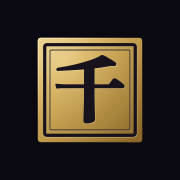
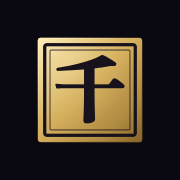
fix(S1b.3/brand): the seal's finish after Codex round 8 — cream carried across the lit face, a fainter caught light, the inverse's 千 lit with its frames; story layers rebuilt from the per-object masters
- Seal: the ramp starts at the cream highlight and carries the light gold across the upper-left face; weaker bloom;
  the light caught under the carving at 0.3 opacity, half the offset, fading toward the far corner. Geometry unchanged.
- Inverse: the 千 is placed in seal coordinates, so its userSpaceOnUse inlay is the same light as the frames'.
- Regenerated every build.py output, rasters and app copies; re-pinned the seal and mono; identity codegen re-run.
- onboarding-art.mjs: the masters now keep one layer per object or shadow (layers.json), so the five bands the hero
  moves are composed from them as contiguous runs (stacking kept: stacked bands match the masters to WebP error, the
  same as on main). Markets has no fore band any more (its label plates sit with their trays); scenes.ts drops it.
- Review file: round 8 verbatim and the fix; README and plan updated.

diff --git a/packages/identity/src/art/originals.ts b/packages/identity/src/art/originals.ts
@@ -61,7 +61,7 @@ export const ORIGINAL_ART: readonly ArtSource[] = [
       symbol: {
         path: "brand/senryo-seal.svg",
         url: "brand/senryo-seal.svg",
[2 lines of base64/hex data omitted]
         viewBox: "0 0 512 512",
         insetPermille: 0,
         surface: "any",
@@ -70,7 +70,7 @@ export const ORIGINAL_ART: readonly ArtSource[] = [
       monoLight: {
         path: "brand/senryo-seal-mono.svg",
         url: "brand/senryo-seal-mono.svg",
[2 lines of base64/hex data omitted]
         viewBox: "0 0 512 512",
         insetPermille: 0,
         surface: "dark",

diff --git a/apps/mobile/src/features/onboarding/scenes.ts b/apps/mobile/src/features/onboarding/scenes.ts
@@ -78,7 +78,6 @@ export const SCENES: readonly Scene[] = [
     layers: {
       shadow: require("../../../assets/onboarding/scene-markets-shadow.webp"),
       main: require("../../../assets/onboarding/scene-markets-main.webp"),
-      fore: require("../../../assets/onboarding/scene-markets-fore.webp"),
     },
     labels: LABELS.scenes.markets as readonly SceneLabel[],
   },

diff --git a/brand/scripts/build.py b/brand/scripts/build.py
@@ -6,6 +6,7 @@ gold-leaf ramp (MATERIAL.goldLeaf in src/marks.ts), carved in lacquer; grounds a
 """
 import json
 import os
+import re
 import subprocess
 import sys
 
@@ -35,18 +36,21 @@ def gradient(gid: str, stops: list[tuple], attrs: str = 'x1="0" y1="0" x2="1" y2
 
 
 # The gold-leaf seal, lit from the upper left (the onboarding scenes' lamp): the field runs the whole ramp corner to
-# corner, the lamp's reflection is a soft round bloom of the highlight off the lit corner (so the light falls off in
-# two directions, not in one straight band), and the bevel is light along the lit edges and shade along the far ones,
-# fading out between.
+# corner (cream at the lit corner, the light gold carried across the upper-left face, the deepest brown only in the far
+# corner), the lamp's reflection is a soft round bloom off the lit corner (so the light falls off in two directions, not
+# in one straight band), and the bevel is light along the lit edges and shade along the far ones, fading out between.
+# The light a carved edge catches is faint and fades toward the far corner too.
 LEAF_FILL, LEAF_SHEEN, LEAF_BEVEL = "url(#senryo-leaf)", "url(#senryo-leaf-sheen)", "url(#senryo-leaf-bevel)"
+LEAF_CATCH = "url(#senryo-leaf-catch)"
 LEAF_DEFS = (
-    gradient("senryo-leaf", [(0, LEAF["light"]), (0.3, LEAF["mid"]), (0.7, LEAF["shade"]), (1, LEAF["shadow"])])
-    + f'<radialGradient id="senryo-leaf-sheen" cx=".26" cy=".22" r=".62"><stop offset="0" stop-color="{LEAF["highlight"]}" '
-    f'stop-opacity=".4"/><stop offset=".5" stop-color="{LEAF["highlight"]}" stop-opacity=".13"/>'
+    gradient("senryo-leaf", [(0, LEAF["highlight"]), (0.2, LEAF["light"]), (0.48, LEAF["mid"]), (0.8, LEAF["shade"]), (1, LEAF["shadow"])])
+    + f'<radialGradient id="senryo-leaf-sheen" cx=".3" cy=".26" r=".6"><stop offset="0" stop-color="{LEAF["highlight"]}" '
+    f'stop-opacity=".26"/><stop offset=".5" stop-color="{LEAF["highlight"]}" stop-opacity=".08"/>'
     f'<stop offset="1" stop-color="{LEAF["highlight"]}" stop-opacity="0"/></radialGradient>'
     + gradient("senryo-leaf-bevel", [(0, LEAF["highlight"], 0.85), (0.4, LEAF["highlight"], 0), (0.6, LEAF["shadow"], 0), (1, LEAF["shadow"], 0.85)])
+    + gradient("senryo-leaf-catch", [(0, LEAF["highlight"]), (1, LEAF["highlight"], 0.2)])
 )
-CATCH_SHIFT, CATCH_OPACITY = (2.0, 2.6), 0.5  # the light a carved edge catches: offset in seal units (of 512), strength
+CATCH_SHIFT, CATCH_OPACITY = (1.0, 1.3), 0.3  # the light a carved edge catches: offset in seal units (of 512), strength
 BEVEL_WIDTH = 5  # seal units (of 512)
 # The inverse seal: lacquer lit the same way, the carving filled with gold leaf (one ramp across the whole seal).
 INVERSE_FILL, INVERSE_CARVE = "url(#senryo-lacquer)", "url(#senryo-leaf-inlay)"
@@ -67,13 +71,37 @@ def outline(font: str, text: str, tracking: float = 0) -> dict:
     return json.loads(out)
 
 
-def fit(glyph: dict, box_x: float, box_y: float, box_w: float, box_h: float) -> str:
-    """Transform that scales the glyph bbox into the box (uniform) and centres it."""
+def fit_params(glyph: dict, box_x: float, box_y: float, box_w: float, box_h: float) -> tuple[float, float, float]:
+    """(tx, ty, s): the uniform scale that fits the glyph bbox into the box, and the translation that centres it."""
     x0, y0, x1, y1 = glyph["bbox"]
     s = min(box_w / (x1 - x0), box_h / (y1 - y0))
-    tx = box_x + (box_w - (x1 - x0) * s) / 2 - x0 * s
-    ty = box_y + (box_h - (y1 - y0) * s) / 2 - y0 * s
+    return round(box_x + (box_w - (x1 - x0) * s) / 2 - x0 * s, 2), round(box_y + (box_h - (y1 - y0) * s) / 2 - y0 * s, 2), round(s, 5)
+
+
+def fit(glyph: dict, box_x: float, box_y: float, box_w: float, box_h: float) -> str:
+    """Transform that scales the glyph bbox into the box (uniform) and centres it."""
+    tx, ty, s = fit_params(glyph, box_x, box_y, box_w, box_h)
     return f"translate({tx:.2f} {ty:.2f}) scale({s:.5f})"
+
+
+def placed(d: str, tx: float, ty: float, s: float) -> str:
+    """The path `d` (absolute M/L/H/V/Q/Z only, as outline.py writes glyphs) moved by translate(tx ty) scale(s)."""
+    out, cmd, axis = [], "", 0
+    for tok in re.findall(r"[A-Za-z]|-?\d*\.?\d+", d):
+        if tok.isalpha():
+            if tok not in "MLHVQZ":
+                raise ValueError(f"placed(): unsupported path command {tok}")
+            out.append(tok)
+            cmd, axis = tok, 0
+            continue
+        v = float(tok)
+        if cmd == "H" or (cmd != "V" and axis == 0):
+            v = tx + s * v
+        else:
+            v = ty + s * v
+        axis = 0 if cmd in "HV" else 1 - axis
+        out.append(f"{v:.2f}")
+    return " ".join(out).replace(" Z", "Z")
 
 
 def write(name: str, body: str) -> None:
@@ -87,9 +115,13 @@ WORD = outline(MONO, "SENRYO", -10)
 
 
 # --- seal ---------------------------------------------------------------------
-def seal_group(size: float, fill: str, carve: str, simple: bool = False, edge: str | None = None, leaf: bool = False) -> str:
+def seal_group(
+    size: float, fill: str, carve: str, simple: bool = False, edge: str | None = None, leaf: bool = False, inlay: bool = False
+) -> str:
     """角印: filled square, carved double border (thick + hairline), carved 千. Coordinates 0..size.
-    `leaf` is the gold-leaf seal: a sheen and a bevel on the field and a line of light caught under every carved edge."""
+    `leaf` is the gold-leaf seal: a sheen and a bevel on the field and a line of light caught under every carved edge.
+    `inlay` places the 千 in seal coordinates (no transform), so one userSpaceOnUse paint lights glyph and frames alike;
+    otherwise the path stays in font units (art.py reads the glyph from the primary seal that way)."""
     k = size / 512
     r = 14 * k
     parts = [f'<rect width="{size}" height="{size}" rx="{r:.2f}" fill="{fill}"/>']
@@ -121,16 +153,18 @@ def seal_group(size: float, fill: str, carve: str, simple: bool = False, edge: s
     else:
         box = 56 * k
     # Optical centre: nudge the glyph up a hair (mincho 千 carries weight in its lower stem).
-    t = fit(SEN, box, box - 4 * k, size - 2 * box, size - 2 * box)
+    tx, ty, s = fit_params(SEN, box, box - 4 * k, size - 2 * box, size - 2 * box)
     # Embolden with a same-colour stroke (font units): mincho hairlines become carved seal strokes.
     bold = 34 if simple else 22
-    carved.append(
-        f'<path transform="{t}" fill="INK" stroke="INK" stroke-width="{bold}" stroke-linejoin="round" d="{SEN["d"]}"/>'
-    )
+    if inlay:
+        glyph = f'stroke-width="{bold * s:.2f}" d="{placed(SEN["d"], tx, ty, s)}"'
+    else:
+        glyph = f'transform="{fit(SEN, box, box - 4 * k, size - 2 * box, size - 2 * box)}" stroke-width="{bold}" d="{SEN["d"]}"'
+    carved.append(f'<path fill="INK" stroke="INK" stroke-linejoin="round" {glyph}/>')
     carving = "\n  ".join(carved)  # drawn once per ink: "INK" stands for the colour
     if leaf:
         dx, dy = CATCH_SHIFT[0] * k, CATCH_SHIFT[1] * k
-        caught = carving.replace("INK", LEAF["highlight"])
+        caught = carving.replace("INK", LEAF_CATCH)
         parts.append(f'<g transform="translate({dx:.2f} {dy:.2f})" opacity="{CATCH_OPACITY}">{caught}</g>')
     parts.append(carving.replace("INK", carve))
     return "\n  ".join(parts)
@@ -177,7 +211,7 @@ def build_marks() -> None:
         svg(
             512,
             512,
-            seal_group(512, INVERSE_FILL, INVERSE_CARVE, edge=INVERSE_CARVE),
+            seal_group(512, INVERSE_FILL, INVERSE_CARVE, edge=INVERSE_CARVE, inlay=True),
             "Senryo 千両 seal (inverse)",
             extra_defs=INVERSE_DEFS,
         ),

diff --git a/docs/design/reviews/2026-10-01-j1-art-review.md b/docs/design/reviews/2026-10-01-j1-art-review.md
@@ -8,7 +8,8 @@ This is the review record for the authored J1 artwork package of plan step S1b.3
 blocker B12): six onboarding scenes, the pending-passkey art, the completion foil and twelve default avatars, written
 by `brand/scripts/onboarding.py` into `brand/art/onboarding/` and `brand/art/avatars/`. The artwork owner (an agent)
 ran the review after each revision and worked through every finding; the reviewer's text below is verbatim. The
-redrawn Kinpaku card face and the gold-leaf seal were added afterwards (rounds 6 and 7).
+redrawn Kinpaku card face and the gold-leaf seal were added afterwards (rounds 6 and 7), and the seal's finish was
+reviewed once more on its own (round 8, at the end of this file).
 
 ## How it was run
 
@@ -62,6 +63,17 @@ reviewed those two over two further rounds (same command, verbatim at the end of
 - **Changed after the round-7 verdict, not re-reviewed** (each one a refinement the reviewer asked for): the Practice
   label plate narrowed to restore its 10 pt right inset; fewer and smaller leaf fragments along the card's tear (card
   face, scenes 1 and 5); the card back's band lost its continuous outline and some creases.
+- **Round 8: the seal's finish, on its own.** Before the round, the seal's field moved to the full five-stop ramp
+  (`MATERIAL.goldLeaf` with `#AE8941` and `#EACF8C`), a soft radial bloom replaced the even corner highlight, and the
+  inverse took a lit lacquer field with gold-leaf inlay. Codex saw the seal at 24, 32, 48 and 88 px on `#0A0911` and
+  `#13121A` (`brand/review/seal-sizes.png`), the variants at 264 px, the old lemon seal and the card front at 400 px.
+  Verdict: small seal PASS (narrowly), large seal FAIL (brass plaque: a broad ochre face and a conspicuous cream line
+  under the carving), inverse FAIL (its 千 lit apart from its frames), mono PASS, card front PASS.
+- **Fixed once after round 8, not re-reviewed.** Large seal: the ramp starts at the cream highlight and carries the light
+  gold across the upper-left face (`#FFF0BC` 0, `#EACF8C` .2, `#D4AE5B` .48, `#AE8941` .8, `#886426` 1), the bloom is
+  weaker, and the light caught under the carving dropped from 0.5 to 0.3 opacity at half the offset, fading toward the
+  far corner. Inverse: the 千 is placed in seal coordinates (no transform), so its `userSpaceOnUse` inlay gradient is the
+  same light as the frames'. Geometry unchanged in both.
 
 Findings from those rounds that are not art and are still open: the Card tab's overlay starts at 52 % across and its
 holder/expiry row is cramped at phone width (the art leaves clear lacquer from about 42 %); the app icon's seal scale
@@ -923,3 +935,32 @@ Changes, in priority order:
 - **Immediate visual punch:** the muted seal attracts less attention than the old yellow square. That is an intentional palette tradeoff, but the app icon’s generous margins compound it.
 
 The old heavy grain and lemon colour should not return; recover the finer edge and softer reflection within the new ramp.
+
+## Seal and card front — round 8 verdict (verbatim)
+
+Shown: `brand/review/seal-sizes.png`, `seal-sizes-lemon-before.png`, `seal-variants.png`, `kinpaku-card-400.png` and the
+scene-2 phone mock. The fix that followed is described under "After round 5" above and was not re-reviewed.
+
+**(a) Small seal, 24–88 px — PASS, narrowly.** At 24 px, 千 retains its upper sweep, crossbar and stem on both backgrounds. The hairline frame softens, but the glyph stays distinct. At 32–88 px, the lighter upper-left face and darker lower-right corner provide enough variation to read as a small gold object. The 3x versions improve edge definition. It clears the “flat mustard square” threshold, although the gold is subdued.
+
+**(b) Large seal — FAIL.** At 264 px, the broad ochre-brown face, heavy lacquer frame and continuous pale line beneath the carving read as a brass plaque. The cream outline beneath the stem and lower frame makes the bevel-and-emboss construction conspicuous. The onboarding tile has a clearer pale reflection and less visually dominant edge treatment.
+
+Fix, in priority order:
+
+1. **Improve the face reflection.** In [LEAF_DEFS](/Users/abu/dev/hackathon/metropolis/.claude/worktrees/art-j1/brand/scripts/build.py:42), the base gradient actually has **four stops**, starting at `#EACF8C`; `#FFF0BC` appears only through the translucent bloom and bevel. Put the cream highlight into the base ramp, carry the lighter gold farther across the upper-left face, and confine the deepest brown toward the far corner. The [reference tile’s face ramp](/Users/abu/dev/hackathon/metropolis/.claude/worktrees/art-j1/brand/scripts/kit.py:314) is a useful starting point.
+2. **Reduce the carving’s caught-light outline.** Start by lowering `CATCH_OPACITY` from `0.5` toward `0.2` and roughly halving the displacement. Fade its strength toward the far corner. Preserve the geometry; the problem is the lighting hierarchy.
+
+**(c) Inverse and mono — FAIL overall: inverse FAIL; mono PASS.** The inverse’s lacquer field is appropriately quiet, but at 264 px its upper 千 is pale cream while nearby frame sections are already deeper gold. The pieces appear separately illuminated.
+
+There is a concrete source cause: the [inverse glyph](/Users/abu/dev/hackathon/metropolis/.claude/worktrees/art-j1/brand/senryo-seal-inverse.svg:8) has a translation and scale, which also transform its `userSpaceOnUse` gradient. The frames use that gradient in untransformed seal coordinates.
+
+**Priority fix:** transform the glyph coordinates into the seal’s 512-unit space before applying the shared gradient, or compensate its gradient transform. Gold at the same position should receive the same light across glyph and frames.
+
+The mono specimen passes: one consistent colour, clear 千 and clean frame hierarchy. Its simplicity suits a monochrome mark.
+
+**(d) Kinpaku card front, 400 px — PASS.** This is the strongest material treatment. The broad pale reflection across the left field, faint overlapping sheets and finely torn boundary read as thin leaf on lacquer. The roughly 50 px seal remains legible and feels pressed into the surface. The lacquer reflection is restrained, and the right half gives the number room. “Senryo” is small but readable; `金箔` works as subordinate detail. The sheet seams are near the upper limit of visibility—stronger seams would start resembling tiles.
+
+Compared with the inspected Solflare and Phantom recording frames, the card meets the authored-material bar more convincingly than the large seal.
+
+**Single most valuable change: give the primary seal a broader cream reflection across its face, bringing its lighting closer to the onboarding tile.**
+

diff --git a/docs/plan/stage-01b-design-v2.md b/docs/plan/stage-01b-design-v2.md
@@ -246,8 +246,11 @@ It ships mobile first; web inherits the tokens and identity immediately and gets
     still falls short).
   - Also redrawn in the same pass: the Kinpaku card face and back (the scene-5 card, flat; the Card tab's raster) and
     the seal through the gold-leaf ramp (geometry kept; app icon, splash seal and web copies refreshed by
-    `brand/scripts/render.sh`). Codex: both pass as first-pass masters (same review file).
+    `brand/scripts/render.sh`). Codex: card front and back pass as first-pass masters; the seal passes at app sizes,
+    and its large-size finish and inverse were fixed once after round 8 and not re-reviewed (same review file).
   - `brand/art/onboarding/layers.json` lists each master's layers (one per unit of motion) for the J1 story screen.
+    The app's story still moves five bands: `apps/mobile/scripts/onboarding-art.mjs` composes them from those layers
+    as contiguous runs (master stacking kept); moving the hero to per-layer depths is an app-side follow-up.
   - **B12 stays open:** the user's design review is the gate. Motion as implemented, on-device rendering and the
     pending screen's layout are unreviewed. Contact sheets and motion samples: `brand/scripts/sheets.py`, `motion.py`.
 - **S1b.4, partial:**

diff --git a/brand/README.md b/brand/README.md
@@ -96,8 +96,9 @@ the master after a change (`codegen --emit-svg <dir>`).
 
 **Review status.** Codex reviewed the J1 package over five rounds, then the redrawn card face and gold-leaf seal over
 two; in the closing rounds every piece passes as a static first-pass master for the user's design review, with a list
-of what still falls short (`docs/design/reviews/2026-10-01-j1-art-review.md`). B12 stays open until the user's design
-review passes.
+of what still falls short (`docs/design/reviews/2026-10-01-j1-art-review.md`). A last round on the seal alone (round 8)
+passed it at app sizes and failed its large-size finish and the inverse; both were fixed once and not re-reviewed.
+B12 stays open until the user's design review passes.
 
 `render.sh` also writes `apps/mobile/assets/images/kinpaku-card.png` (the card face as the Card tab's raster) and re-runs
 `art.py`, `onboarding.py` and the identity codegen.
